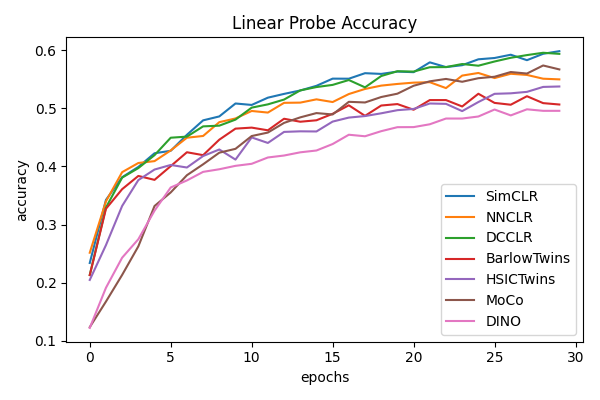
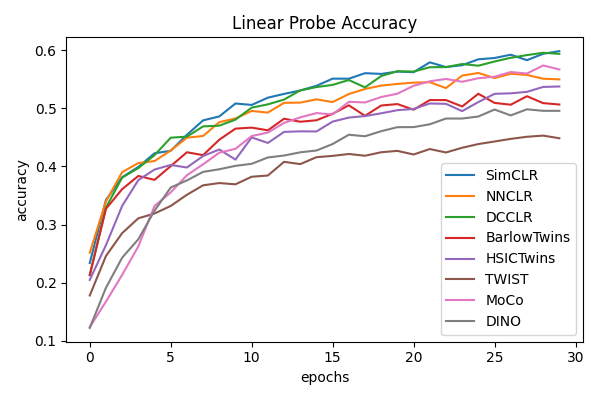
TWIST added

diff --git a/algorithms.py b/algorithms.py
@@ -282,6 +282,52 @@ class HSICTwins(ContrastiveModel):
         )
 
 
+class TWIST(ContrastiveModel):
+    def __init__(
+        self,
+        contrastive_augmenter,
+        classification_augmenter,
+        encoder,
+        projection_head,
+        linear_probe,
+    ):
+        super().__init__(
+            contrastive_augmenter,
+            classification_augmenter,
+            encoder,
+            projection_head,
+            linear_probe,
+        )
+
+    def contrastive_loss(self, projections_1, projections_2):
+        # a probabilistic hyperparameter-free self-supervised losss
+
+        # batch normalization before softmax operation
+        projections_1 = (
+            projections_1 - tf.reduce_mean(projections_1, axis=0)
+        ) / tf.math.reduce_std(projections_1, axis=0)
+        projections_2 = (
+            projections_2 - tf.reduce_mean(projections_2, axis=0)
+        ) / tf.math.reduce_std(projections_2, axis=0)
+
+        probabilities_1 = keras.activations.softmax(projections_1)
+        probabilities_2 = keras.activations.softmax(projections_2)
+
+        mean_probabilities_1 = tf.reduce_mean(probabilities_1, axis=0)
+        mean_probabilities_2 = tf.reduce_mean(probabilities_2, axis=0)
+
+        # cross-entropy(1,2): KL-div(1,2) (consistency) + entropy(1) (sharpness)
+        # -cross-entropy(mean1,mean1): -entropy(mean1) (diversity)
+        loss = keras.losses.categorical_crossentropy(
+            tf.concat([probabilities_1, probabilities_2], axis=0),
+            tf.concat([probabilities_2, probabilities_1], axis=0),
+        ) - keras.losses.categorical_crossentropy(
+            tf.concat([mean_probabilities_1, mean_probabilities_2], axis=0),
+            tf.concat([mean_probabilities_1, mean_probabilities_2], axis=0),
+        )
+        return loss
+
+
 class MoCo(MomentumContrastiveModel):
     def __init__(
         self,

diff --git a/train.py b/train.py
@@ -10,7 +10,7 @@ from tensorflow.keras.layers.experimental import preprocessing
 
 from dataset import prepare_dataset
 from augmentations import RandomResizedCrop, RandomColorJitter
-from algorithms import SimCLR, NNCLR, DCCLR, BarlowTwins, HSICTwins, MoCo, DINO
+from algorithms import SimCLR, NNCLR, DCCLR, BarlowTwins, HSICTwins, TWIST, MoCo, DINO
 
 tf.get_logger().setLevel("WARN")  # suppress info-level logs
 
@@ -26,6 +26,7 @@ hyperparams = {
     DCCLR: {"temperature": 0.1},
     BarlowTwins: {"redundancy_reduction_weight": 10.0},
     HSICTwins: {"redundancy_reduction_weight": 3.0},
+    TWIST: {},
     MoCo: {"momentum_coeff": 0.99, "temperature": 0.1, "queue_size": 10000},
     DINO: {"momentum_coeff": 0.9, "temperature": 0.1, "sharpening": 0.5},
 }

diff --git a/README.md b/README.md
@@ -1,11 +1,12 @@
 # Self-supervised Contrastive Learning for Image Classification with Keras
 
-This repository contains an implementation for 7 self-supervised instance-level (image-level) contrastive learning methods:
+This repository contains an implementation for 8 self-supervised instance-level (image-level) contrastive learning methods:
 - [SimCLR](https://arxiv.org/abs/2002.05709)
 - [NNCLR](https://arxiv.org/abs/2104.14548)
 - [Decoupled Contrastive Learning](https://arxiv.org/abs/2110.06848) (named DCCLR in this repository)
 - [BarlowTwins](https://arxiv.org/abs/2103.03230)
 - [Hilbert-Schmidt Independence Criterion Maximization](https://arxiv.org/abs/2104.13712) (named HSICTwins in this repository)
+- [TWIST](https://arxiv.org/abs/2110.07402)
 - [MoCo](https://arxiv.org/abs/1911.05722) ([v2](https://arxiv.org/abs/2003.04297), [v3](https://arxiv.org/abs/2104.02057))
 - [DINO](https://arxiv.org/abs/2104.14294) (negative-free)
 
